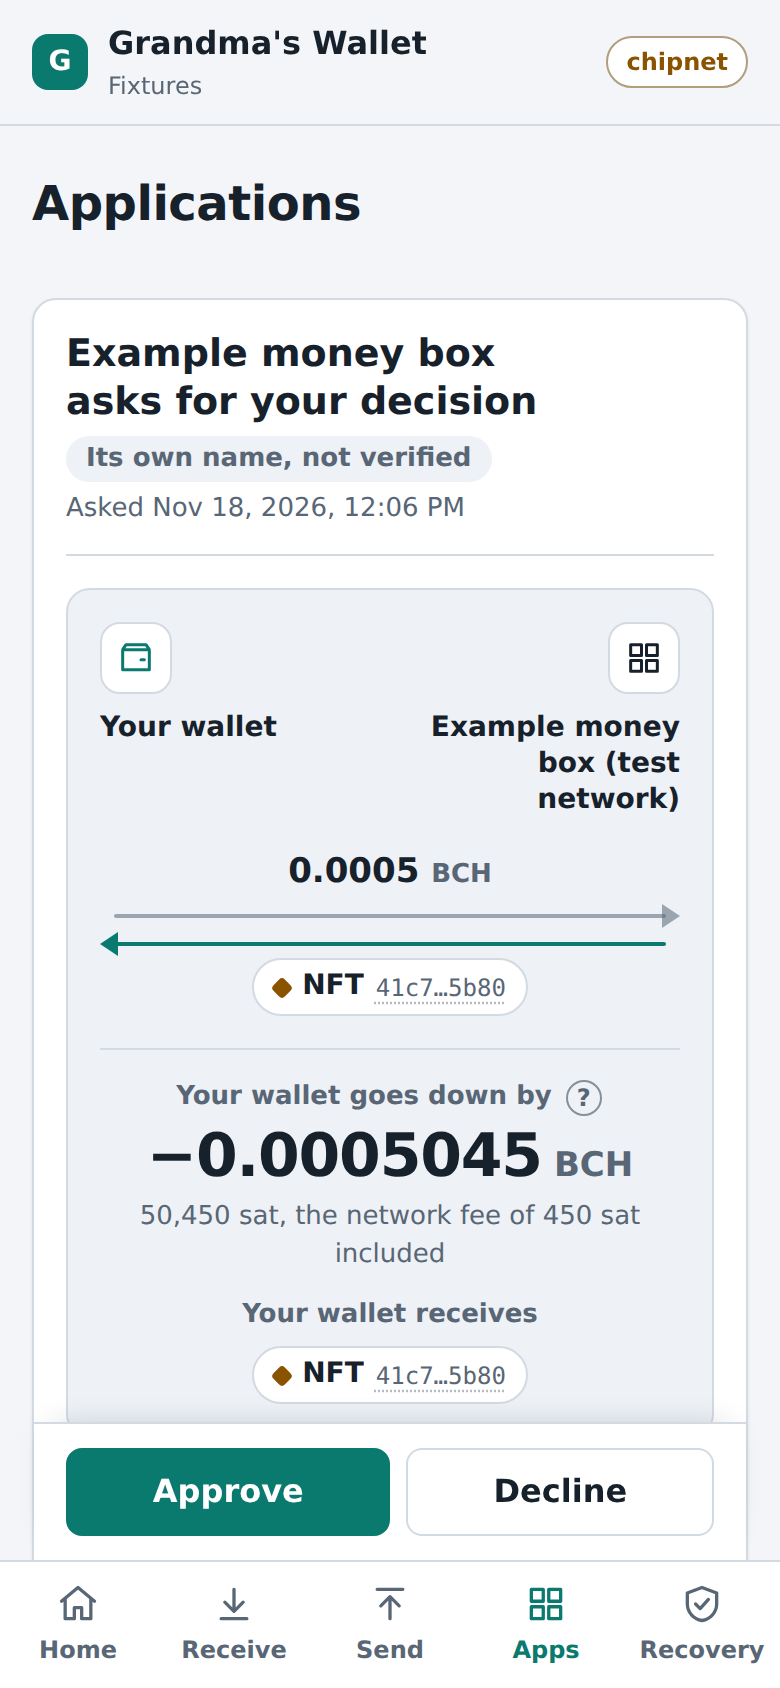
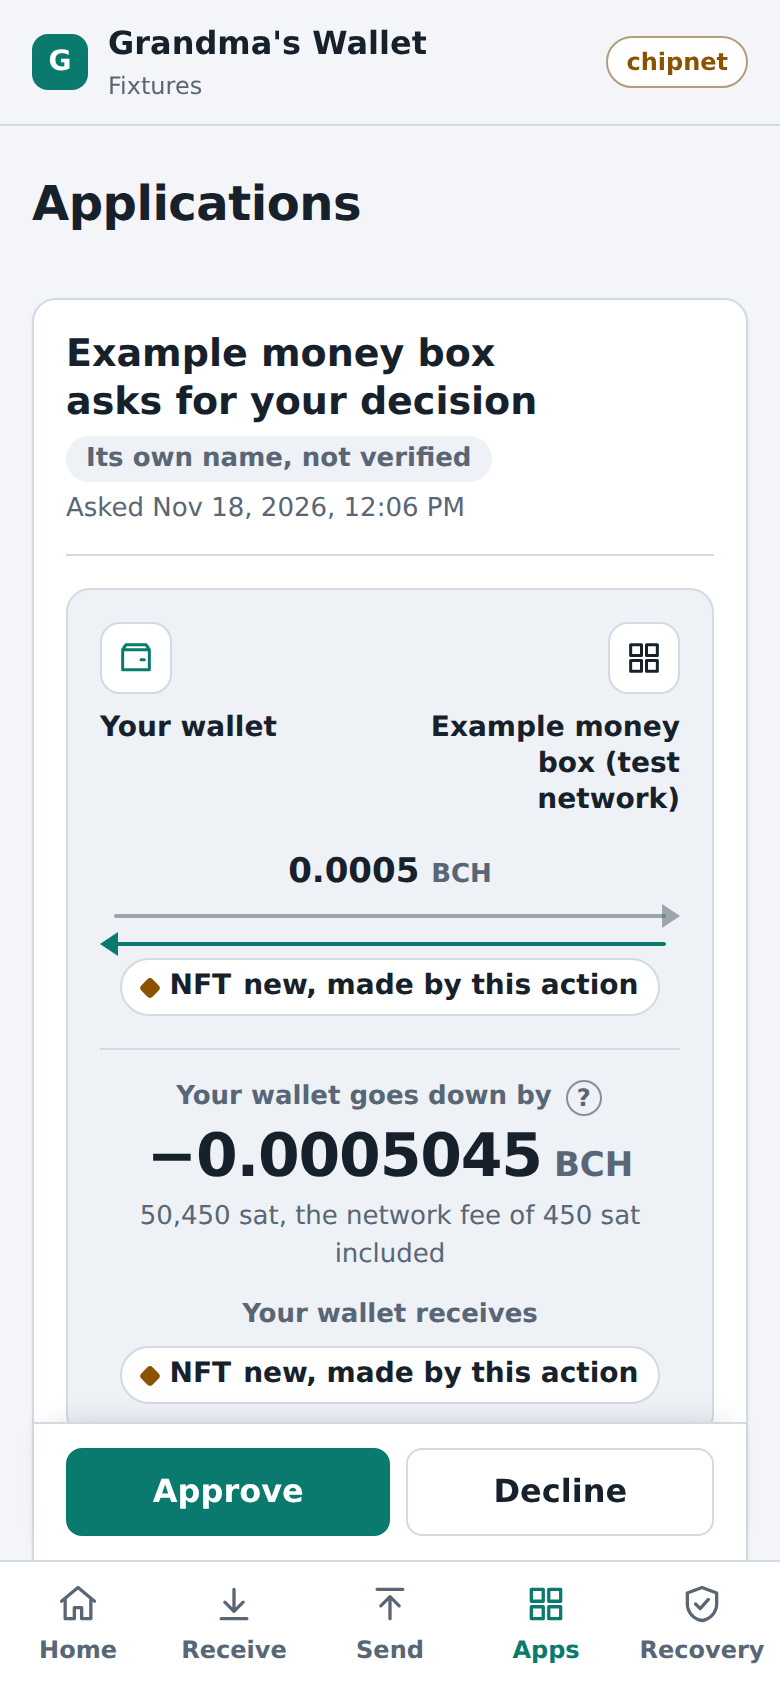
Say in a review that a token not made yet is new, instead of showing a row of zeros

Changed region(s): [[0.1846, 0.5545, 0.8308, 0.6161], [0.1846, 0.8009, 0.8308, 0.8318]]

diff --git a/apps/wallet/src/fixtures.tsx b/apps/wallet/src/fixtures.tsx
@@ -28,7 +28,7 @@ import { type Environment, Button, Card, Field, Frame, PageHead, Pill, TextArea,
 import { render } from 'preact';
 import { useEffect, useState } from 'preact/hooks';
 
-import { ActionReview } from './ActionReview.js';
+import { ActionReview, NOT_YET_MADE } from './ActionReview.js';
 import { TokenNames } from './token-words.js';
 import { Apps, TokenListView } from './Apps.js';
 import { Receive } from './Receive.js';
@@ -208,6 +208,8 @@ const box: TemplateSummary = {
   findings: comesBack(boxActions),
 };
 const boxAt = 'aa20'.padEnd(70, '9');
+/** The box's key while the wallet has yet to pay itself the coin it is made from: the figures carry zeros for it. */
+const NEW_BOX_KEY = NOT_YET_MADE;
 
 const boxOpening: ActionPreview = {
   template: box,
@@ -215,7 +217,7 @@ const boxOpening: ActionPreview = {
     action: { name: 'Open a money box', description: 'Make a new box with its key, and pay the first money in. It stays in the box until its date.' },
     outcome: 'A money box was opened with 50000 satoshis.',
     values: [
-      { name: 'Box key', description: 'The token category of the box\'s key.', value: BOX_KEY },
+      { name: 'Box key', description: 'The token category of the box\'s key.', value: NEW_BOX_KEY },
       { name: 'Opens on', description: 'When the box can be emptied, as a Unix time.', value: '1798761600' },
       { name: 'Amount to put in', description: 'Satoshis to put into the box.', value: '50000' },
       { name: 'Key holder', description: 'Where the box\'s key goes: an address of the wallet.', value: 'aa20'.padEnd(70, 'b') },
@@ -232,7 +234,7 @@ const boxOpening: ActionPreview = {
     applicationInputs: [],
     toOthers: [{ name: 'Money box', lockingBytecode: boxAt, satoshis: 50_000n }],
     toWallet: [
-      { kind: 'receive', satoshis: 1_000n, token: { category: BOX_KEY, amount: 0n, nft: { capability: 'none', commitment: '80f55e6b' } } },
+      { kind: 'receive', satoshis: 1_000n, token: { category: NEW_BOX_KEY, amount: 0n, nft: { capability: 'none', commitment: '80f55e6b' } } },
       { kind: 'left over', satoshis: 8_550n },
     ],
     tokensSpent: [],
@@ -596,7 +598,7 @@ const openMoneyBox: ActionPreview = {
   template: moneyBox,
   finding: { action: 'open', role: 'holder', name: 'Open a money box', finding: 'comes back', outputs: [{ output: 'boxOutput', name: 'Money box', lockingScript: 'boxLockingScript', scriptName: 'Money box', keys: [] }] },
   figures: { ...withoutPayingItself, toWallet: [{ kind: 'receive', satoshis: 1_000n, token: { category: MONEY_KEY, amount: 0n, nft: { capability: 'none', commitment: '01' } } }, { kind: 'left over', satoshis: 8_550n }] },
-  words: { ...boxOpening.words, values: boxOpening.words.values.map((value) => (value.value === BOX_KEY ? { ...value, value: MONEY_KEY } : value)) },
+  words: { ...boxOpening.words, values: boxOpening.words.values.map((value) => (value.value === NEW_BOX_KEY ? { ...value, value: MONEY_KEY } : value)) },
   firstUse: false,
   recordsPosition: true,
 };

diff --git a/apps/wallet/src/ActionReview.tsx b/apps/wallet/src/ActionReview.tsx
@@ -15,9 +15,19 @@ import { TokenNames, frozenNames, rawUnits, tokenUnits } from './token-words.js'
  * full and the template. Nothing here knows any application: every name comes from the template.
  */
 
-/** A long hexadecimal value, shortened; a tap shows it whole. */
+/**
+ * The identifier the wallet's figures carry for a token the action makes from a coin the wallet first pays itself:
+ * it is known only once that payment is made, so the figures are worked out with zeros in its place.
+ */
+export const NOT_YET_MADE = '00'.repeat(32);
+/** How a value is shown that is the identifier of a token not made yet, or `undefined` for any other value. */
+export const notYetMadeWords = (value: string): string | undefined => (value.toLowerCase() === NOT_YET_MADE ? 'new, made by this action' : undefined);
+
+/** A long hexadecimal value, shortened; a tap shows it whole. A token's identifier not known yet is said in words. */
 export const Hex = ({ value, head = 8, tail = 6 }: { value: string; head?: number; tail?: number }) => {
   const [whole, setWhole] = useState(false);
+  const words = notYetMadeWords(value);
+  if (words !== undefined) return <span class="word-value">{words}</span>;
   if (value.length <= head + tail + 1) return <span class="mono">{value}</span>;
   return (
     <button type="button" class={`hex${whole ? ' whole' : ''}`} title={whole ? 'Show shortened' : value} aria-label={whole ? undefined : `${value}, shortened. Show in full.`} onClick={() => setWhole(!whole)}>
@@ -416,6 +426,9 @@ export const TokensLeaving = ({ leaving, tick }: { leaving: NonNullable<ActionPr
   );
 };
 
+/** Said where the wallet pays itself first: what the review cannot show yet, and why. */
+export const PAYING_ITSELF_IDENTIFIER = 'The new token\'s identifier comes from that payment, so it is shown here as new; an address made with it, such as where coins go to others, is worked out again with it before anything is signed.';
+
 /** What asks for care: tokens that leave the wallet, a template taken in now, tokens destroyed, paying itself first, a time. */
 const Cautions = ({ preview, summary, tick }: { preview: ActionPreview; summary: TemplateSummary; tick?: Tick | undefined }) => {
   const { figures } = preview;
@@ -426,7 +439,7 @@ const Cautions = ({ preview, summary, tick }: { preview: ActionPreview; summary:
       {figures.tokensDestroyed.length > 0 && <Destroyed figures={figures} />}
       {figures.payingItself !== undefined && (
         <Notice tone="warn">
-          This wallet has no coin that can start a new token. It first pays itself, in a transaction of its own with a fee of <Sat satoshis={figures.payingItself.feeSatoshis} />, and then carries out the action.
+          This wallet has no coin that can start a new token. It first pays itself, in a transaction of its own with a fee of <Sat satoshis={figures.payingItself.feeSatoshis} />, and then carries out the action. {PAYING_ITSELF_IDENTIFIER}
         </Notice>
       )}
       {figures.notBefore !== undefined && (

diff --git a/scripts/review-check.ts b/scripts/review-check.ts
@@ -236,6 +236,12 @@ try {
     check(template.length > 0 && (await card.locator('.lane.out .lane-items').isVisible()) && (await card.locator('.lane.back .lane-items').isVisible()), `${show}: and the application, "${template}", with what goes each way`);
     check(/^Your wallet goes (down|up) by/.test((await card.locator('.headline-label').innerText()).trim()) && (await card.locator('.headline-figure').isVisible()), `${show}: the headline says by how much the wallet goes ${(await card.locator('.headline-label').innerText()).includes('down') ? 'down' : 'up'}: ${(await card.locator('.headline-figure').innerText()).replace(/\s+/g, ' ')}`);
     for (const caution of cautions) check(await card.getByText(caution).first().isVisible(), `${show}: "${caution}" is in view without opening anything`);
+    if (show === 'box-open') {
+      // The key is made from the coin the wallet first pays itself: its identifier is not known yet, and is said in words.
+      const text = await card.innerText();
+      check(!/0000…0000|00000000…000000/.test(text) && (await card.getByText('new, made by this action').count()) >= 2, `${show}: the key not made yet is "new, made by this action", in the picture and in the template's words, never a row of zeros`);
+      check(await card.getByText(/identifier comes from that payment/).isVisible(), `${show}: the notice of paying itself says the identifier comes from that payment`);
+    }
     check(await card.locator('.their-words .quote-title').isVisible(), `${show}: the action's name in the template's words: "${(await card.locator('.their-words .quote-title').innerText()).trim()}"`);
     check(await card.getByText('This wallet\'s own figures').isVisible(), `${show}: "This wallet's own figures" is named, folded`);
     const approve = page.getByRole('button', { name: 'Approve' });

diff --git a/test/wallet-new-token-words.test.ts b/test/wallet-new-token-words.test.ts
@@ -1,0 +1,26 @@
+import { describe, expect, it } from 'vitest';
+
+import { NOT_YET_MADE, PAYING_ITSELF_IDENTIFIER, notYetMadeWords } from '../apps/wallet/src/ActionReview.js';
+
+/**
+ * A request whose new token is made from a coin the wallet first pays itself (the first Savings Jar of a wallet that
+ * has no coin at output 0): the review is worked out before that payment, with zeros for the token's identifier.
+ * The review says so in words instead of showing "0000…0000" as if it were the token.
+ */
+describe('a token not made yet, in the review of a request', () => {
+  it('its identifier of zeros is said in words', () => {
+    expect(notYetMadeWords(NOT_YET_MADE)).toBe('new, made by this action');
+    expect(notYetMadeWords(NOT_YET_MADE.toUpperCase())).toBe('new, made by this action');
+  });
+
+  it('any other value, a real token\'s identifier or shorter zeros, is shown as it is', () => {
[1 lines of base64/hex data omitted]
+    expect(notYetMadeWords('00'.repeat(20))).toBeUndefined();
+    expect(notYetMadeWords('')).toBeUndefined();
+  });
+
+  it('the notice of paying itself says that the identifier and what is made with it come from that payment', () => {
+    expect(PAYING_ITSELF_IDENTIFIER).toMatch(/identifier comes from that payment/);
+    expect(PAYING_ITSELF_IDENTIFIER).toMatch(/worked out again with it before anything is signed/);
+  });
+});
